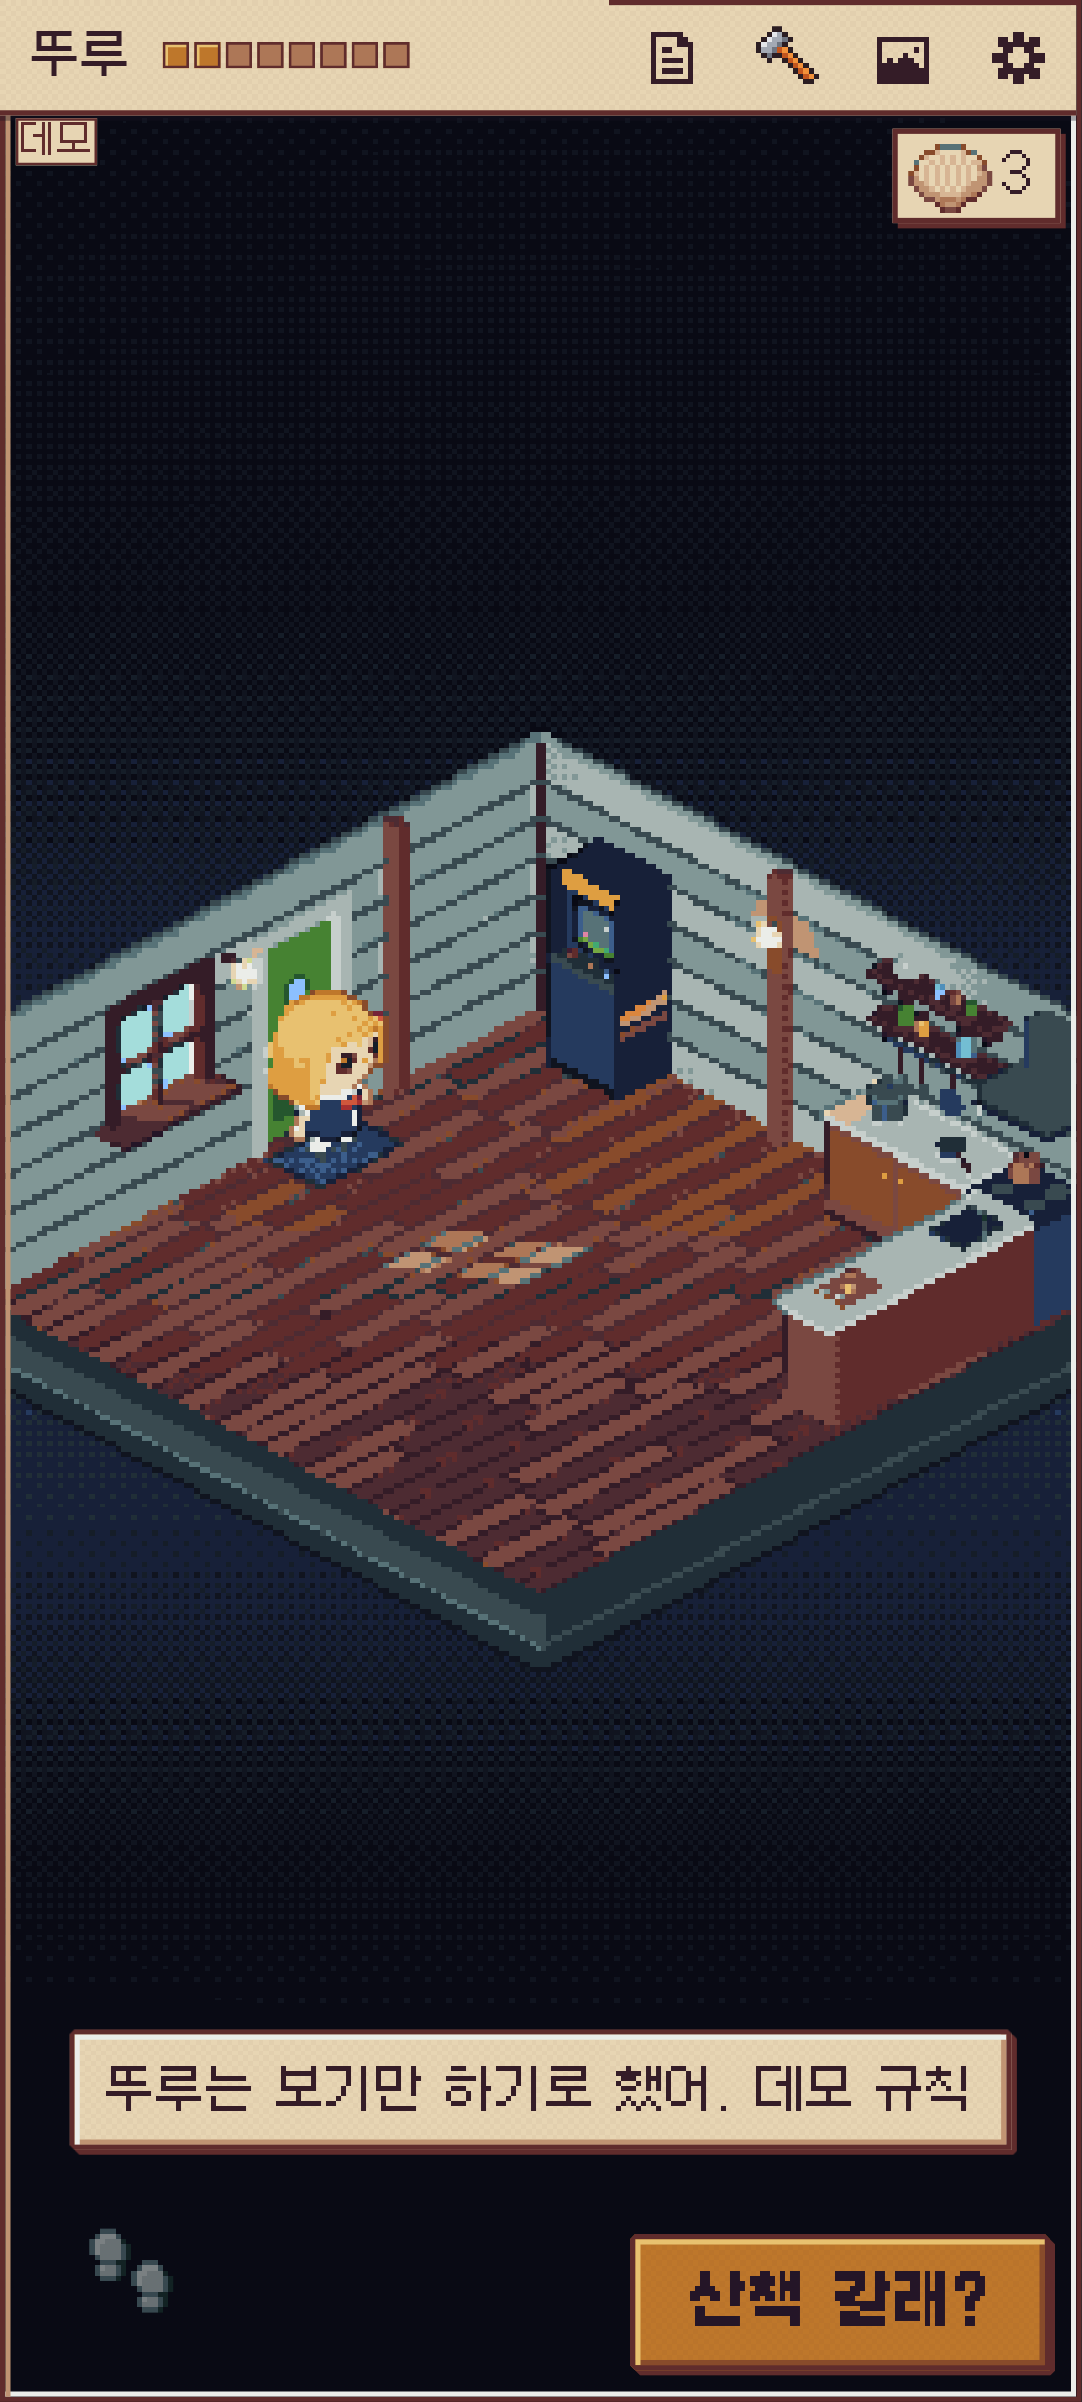
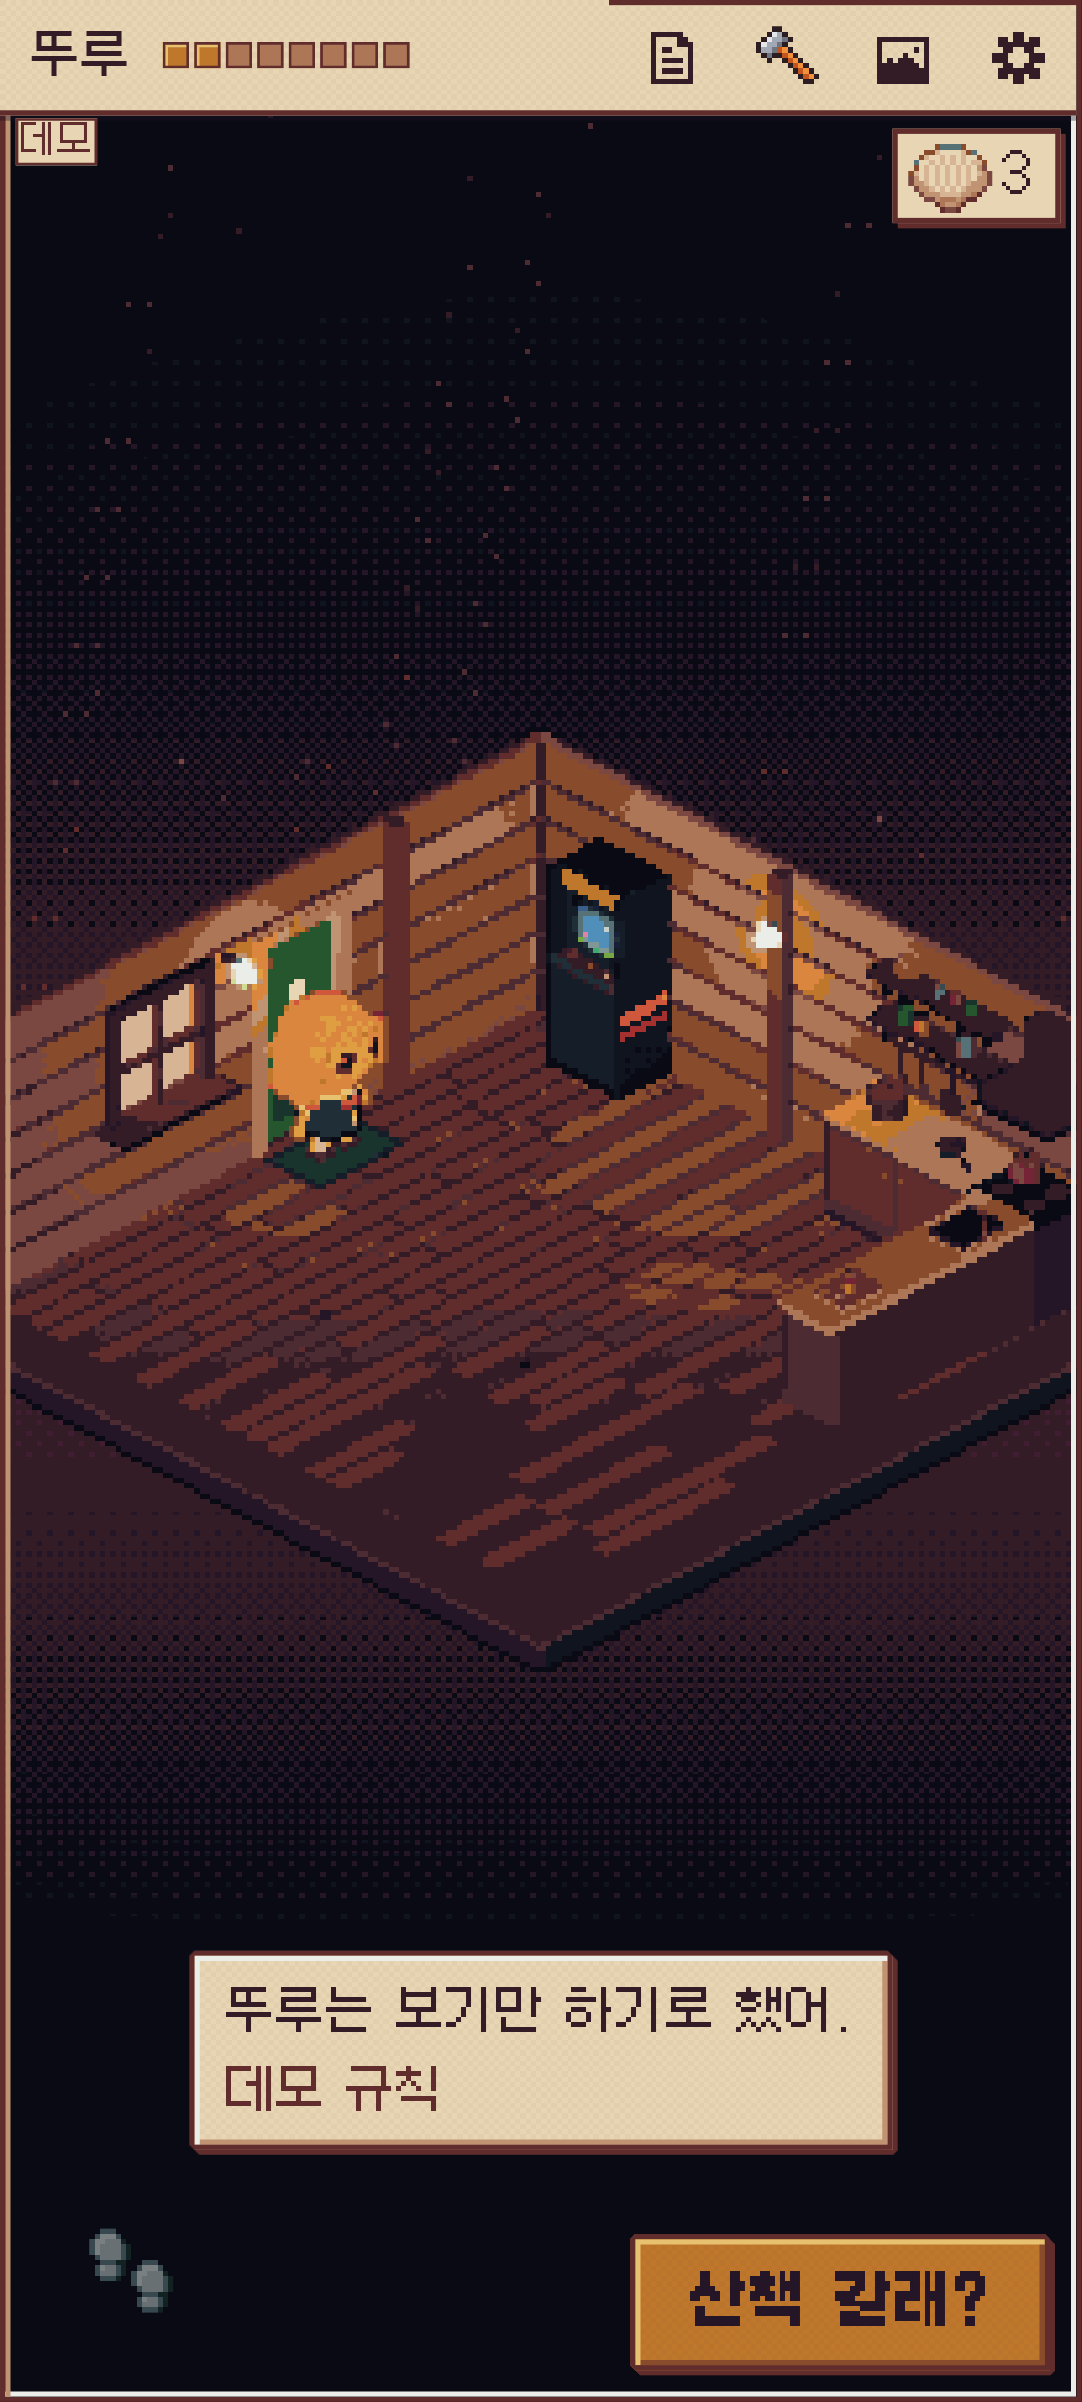
식탁 대답 알림: 누가 정했나 꼬리를 제 줄에 통째로 (가운데서 안 끊김 · 꼬리 색 · 같은 글자 크기)
- css: #toast .lby 블록 · 줄바꿈 없음 · 꼬리 색
- 스모크 EAT: 꼬리가 한 줄 (client rect 하나) · 알림과 같은 크기 · 다른 색
- 화면 3 · 4 새로 · 보고서

Claude-Session: https://claude.ai/code/session_01Tq2y4SwkqJWq3NQsdNUv2x

diff --git a/tools/smoke.js b/tools/smoke.js
@@ -7571,6 +7571,8 @@ async function scenarioEat(browser) {
   await pa.waitForFunction(function () { return document.getElementById('toast').textContent.indexOf('데모 규칙') >= 0; }, null, { timeout: 8000 }).catch(function () {});
   var s4 = await st(pa);
   ok(s4.toast === '뚜루도 같이 먹기로 했어. 데모 규칙' && s4.tail === '데모 규칙', "알림: '뚜루도 같이 먹기로 했어.' + 꼬리 '데모 규칙' (" + s4.toast + ')');
+  var tl = await pa.evaluate(function () { var t = document.getElementById('toast'), b = t.querySelector('.lby'), cs = getComputedStyle(b); return { rects: b.getClientRects().length, fs: cs.fontSize, tfs: getComputedStyle(t).fontSize, col: cs.color, tcol: getComputedStyle(t).color }; });
+  ok(tl.rects === 1 && tl.fs === tl.tfs && tl.col !== tl.tcol, '알림 꼬리는 한 줄 통째 · 글자 크기 그대로 · 꼬리 색 (' + JSON.stringify(tl) + ')');
   await pa.screenshot({ path: path.join(SHOTS, 'eat-answer.png') });
   ok(await idle(pa), '식사가 끝난다');
   var s5 = await st(pa);

diff --git a/css/style.css b/css/style.css
@@ -1705,3 +1705,6 @@ html.intro-on .meal-call { opacity: 0; visibility: hidden; }
 #scene.meal-busy :is(#btn-table, #btn-call, #btn-seat) { visibility: hidden; pointer-events: none; }
 /* 문어가 식탁에 앉아 있는 동안엔 놀이방에서도 이름표 · 말풍선을 보인다 (위의 '놀이방이면 #oct 숨김' 의 예외 — 3D 의 2D 문어 그림은 제 규칙대로 숨은 채) */
 #scene[data-view="play"].oct-table #oct { visibility: visible; }
+/* 11-18 식탁 대답 알림의 꼬리 (누가 정했나 — '데모 규칙' · '모델' · '사람이 정함'): 문장 뒤 제 줄에 통째로 (가운데서 끊기지 않게) · 꼬리 색 · 글자 크기는 알림 그대로 */
+#toast .lby { display: block; white-space: nowrap; color: var(--dim); }
+:root[data-font="pixel"] #toast .lby { color: var(--muted); }

diff --git a/wip/round6/reports/M.md b/wip/round6/reports/M.md
@@ -15,7 +15,7 @@ Test results:
 | `node tools/test-meal.js` | 134 / 0 |
 | `node tools/test-brain.js` | 573 / 0 |
 | `npm test` | passes |
-| `SMOKE_ONLY=EAT` | 55 / 0, three runs in a row (against the stub) |
+| `SMOKE_ONLY=EAT` | 56 / 0 after the toast follow-up (55 / 0 three runs in a row before it; against the stub) |
 | `SMOKE_ONLY=A,S,Y,J,O` | 451 passed, 0 assertion failures |
 | `SMOKE_ONLY=Q` | passes |
 | `python3 tools/subset-fonts.py --check` | `stale: none` |
@@ -180,6 +180,14 @@ No `must`. Five `should`, all fixed:
 - **S5:** normalize could drop a duplicate eaten entry and rewrote unknown `ate.oct` values. Both fixed.
 
 It also noted that the scene description was stale during the think beat; that is fixed too.
+
+## Follow-up from the lead (toast tail)
+In the answer toast the tail used to wrap in the middle ('… 데모' / '규칙').
+- **Fix:** `#toast .lby` is now `display: block; white-space: nowrap` in the tail colour (`--muted` in the pixel theme, `--dim` on the dark system toast). The tail sits on its own line, whole, at the toast's own font size (never smaller).
+- **Probe:** eat and watch × tails '데모 규칙' and '사람이 정함' × names '뚜루' and '가나다라마바사아' (8 characters) × 360×740@2, 412×915@2.625 and 320×568@2. All 24 cases: the tail is one client rect, has the same font size as the toast, and stays inside the toast.
+- '모델' cannot show this round (no model path); it uses the same rule.
+- **Smoke EAT:** new check that the tail is one client rect, same font size, distinct colour. EAT 56 / 0, `npm test` passes.
+- Shots 3 and 4 refreshed.
 
 ## Known limits / not verified
 - **The 2.625 chip is not perfectly crisp.** At @2.625 a CSS box can only land on 1/64 CSS px (≈ 0.04 dev px). The 80-dev-px art comes out as 79.98 dev px, and its right column shows a faint soft edge (shot 7). @2 and @3 are exact. A canvas-drawn chip would fix it if the owner minds.
